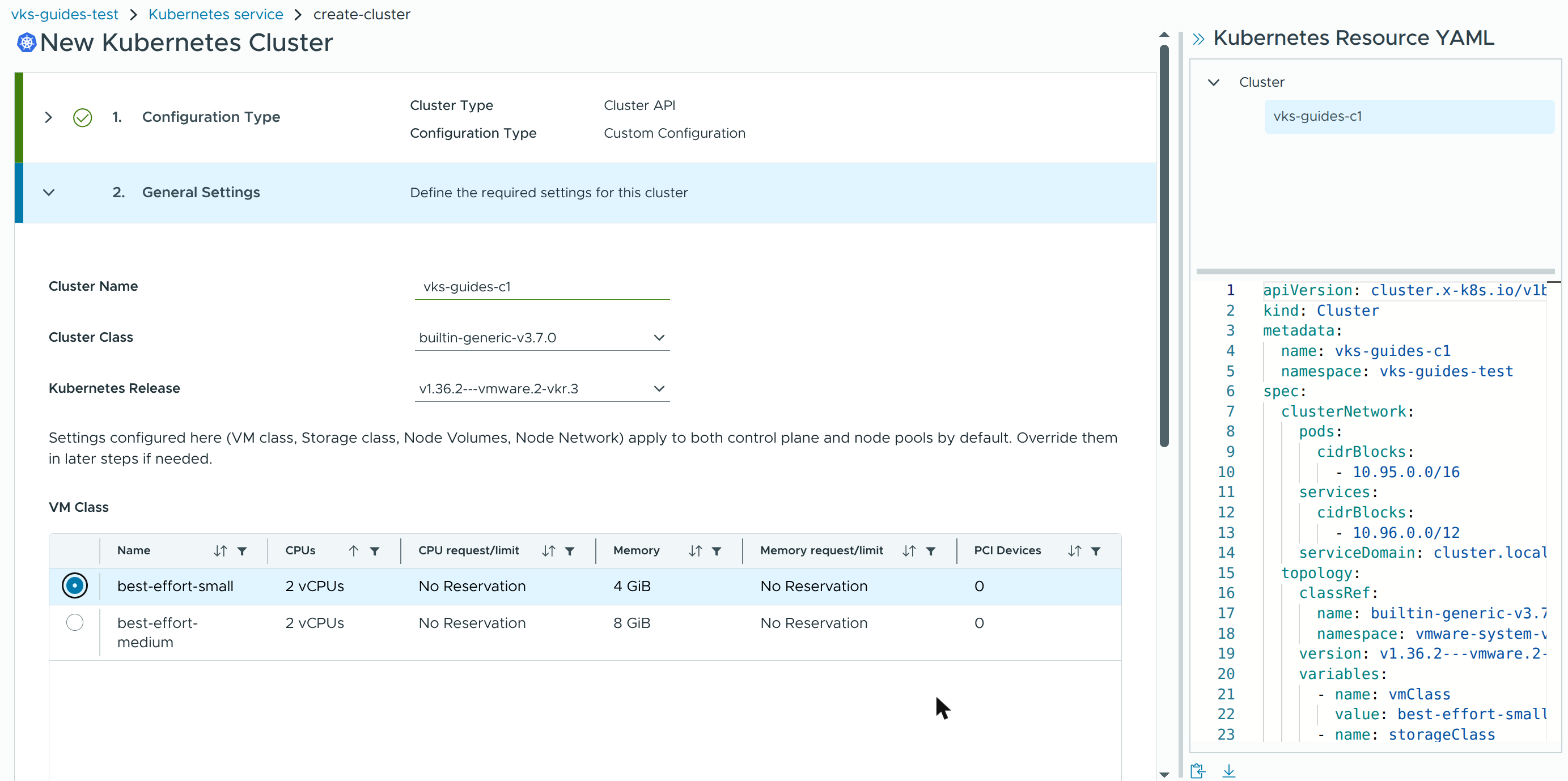
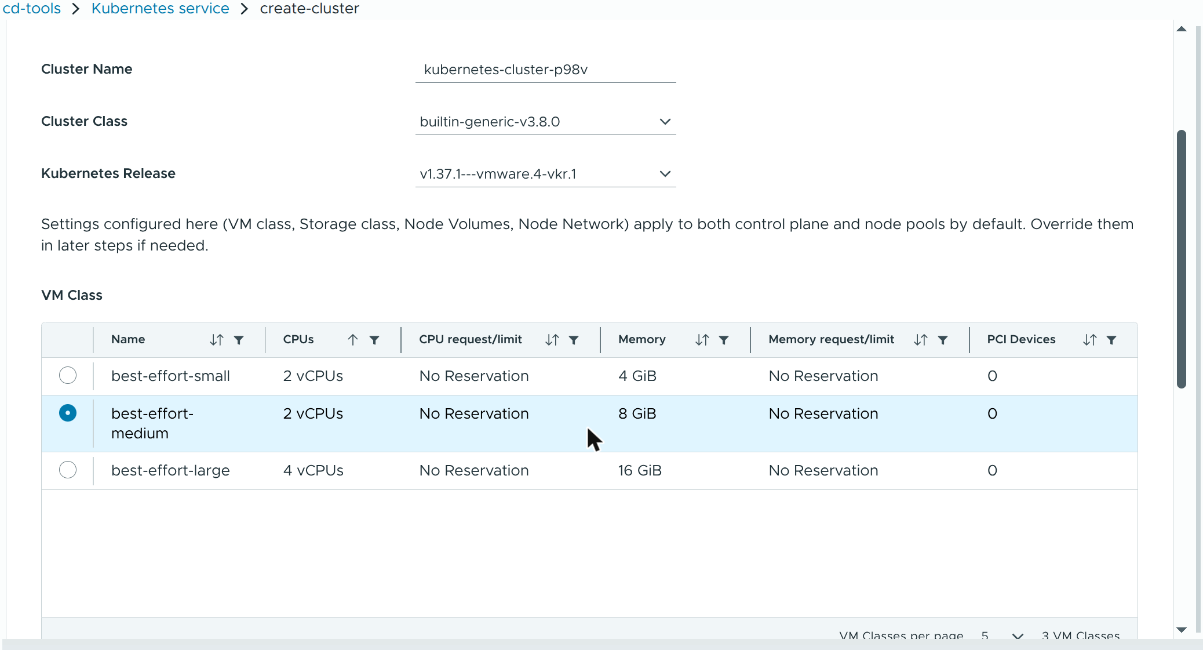
docs: CLUSTER screenshots show best-effort-medium (create page, node pool, YAML edit), retaken read-only (#186)

diff --git a/docs/CLUSTER.md b/docs/CLUSTER.md
@@ -191,7 +191,7 @@ right.
    **Kubernetes Release**. In the **VM Class** table, select your class with the round button:
    the page preselects one, which may not be the one you want. Choose your **Storage Class**.
 
-   ![Step 2 General Settings: Cluster Name, Cluster Class, Kubernetes Release, and the VM Class table with best-effort-small selected](img/cluster/06-create-general.png)
+   ![Step 2 General Settings: Cluster Name, Cluster Class, Kubernetes Release, and the VM Class table with best-effort-medium selected](img/cluster/06-create-general.png)
 
 3. Still in step 2, open **Storage** and choose your storage class under **Default Storage
    Class**. The page leaves it empty; without it, every app that asks for a disk without naming a
@@ -211,7 +211,7 @@ right.
    **NEXT**, and select the class under **VM Class & Storage Class**; click **NEXT** through the
    other steps and **FINISH**. The row then shows the pool's class. Click **NEXT**.
 
-   ![Step 4 Node pools: ADD NODEPOOL and one pool with Replicas 1, Photon 5, best-effort-small and wcp-vmfs](img/cluster/09-create-node-pool.png)
+   ![Step 4 Node pools: ADD NODEPOOL and one pool with Replicas 1, Photon 5, best-effort-medium and wcp-vmfs](img/cluster/09-create-node-pool.png)
 
 **Expect:** **5. Review and Confirm** opens, and steps 1 to 4 each show a green tick.
 
@@ -796,7 +796,7 @@ during the change the cluster has one node more for the control plane and one mo
 
    The editor's **Find and replace** (Ctrl+H) finds the line.
 
-   ![The YAML pane in edit mode: SAVE and CANCEL, the note that edit mode checks only YAML syntax, and the vmClass value changed to best-effort-small](img/cluster/23-yaml-edit.jpg)
+   ![The YAML pane in edit mode: SAVE and CANCEL, the note that edit mode checks only YAML syntax, and the vmClass value changed to best-effort-medium](img/cluster/23-yaml-edit.png)
 
 3. Click **SAVE**. The vSphere Client checks only that the text is YAML, not that the change
    works: check it with the block below.
